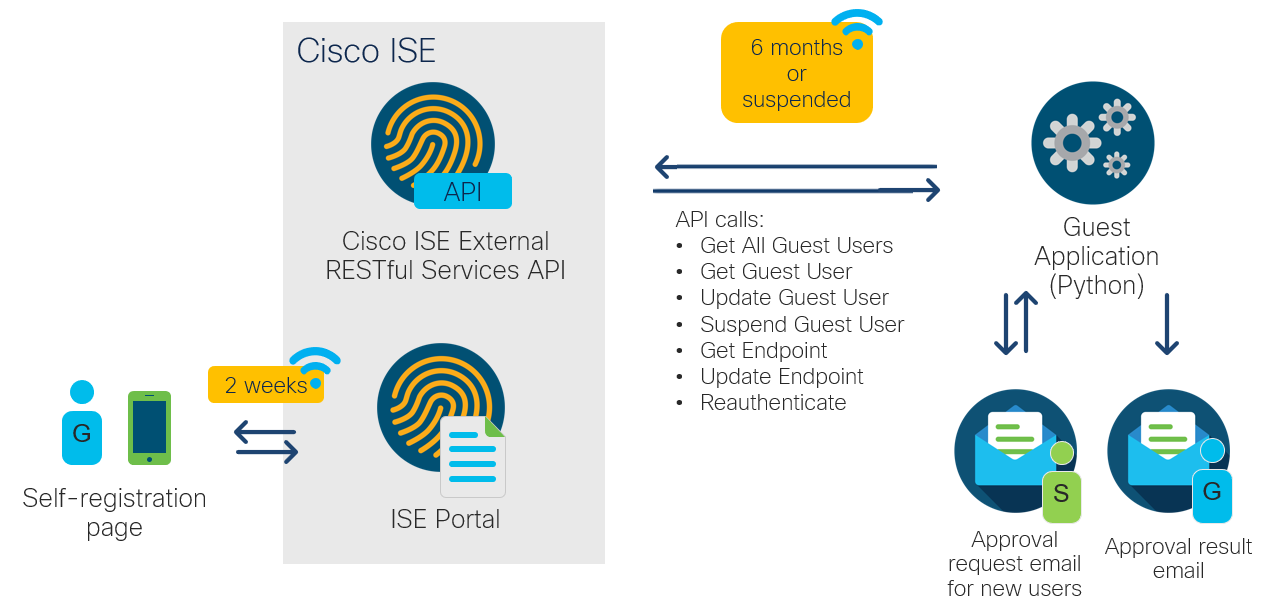
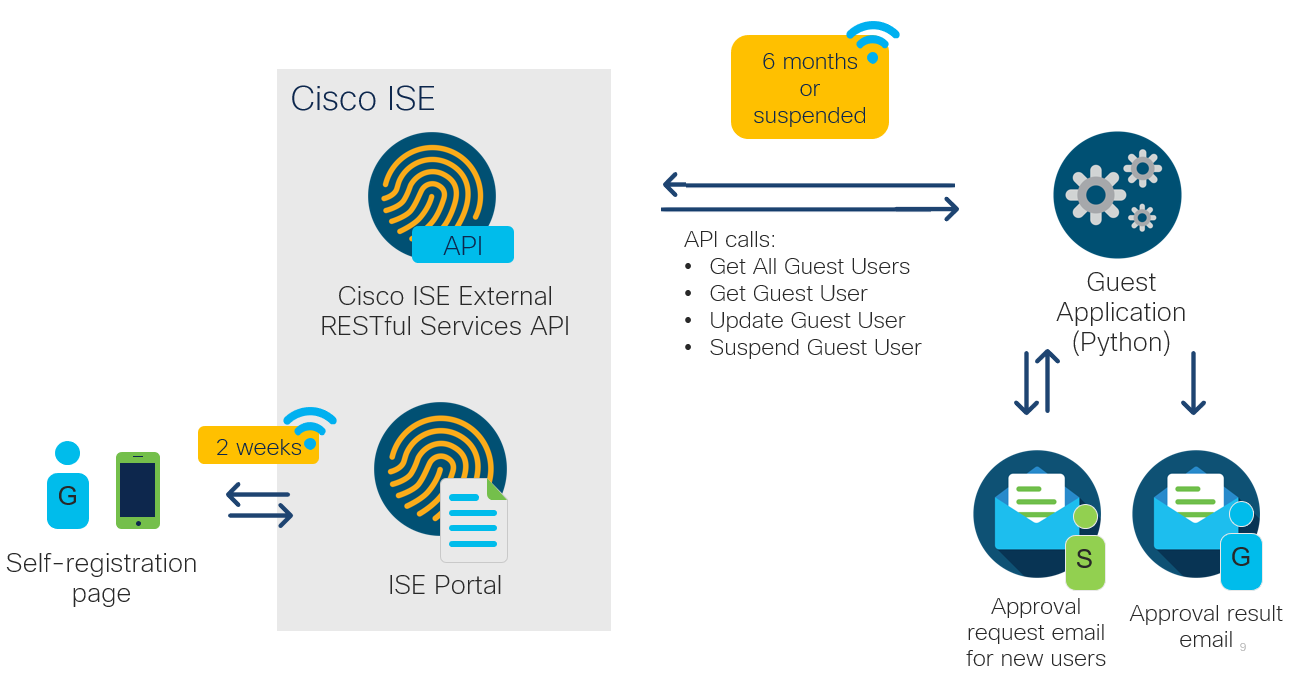
Baselined from internal Repository last_commit:55949ef94c226eb8f30155ea487baa083166c3f3

diff --git a/templates/ise_script.html b/templates/ise_script.html
@@ -19,16 +19,9 @@ or implied.
 <script type="text/javascript">
     $('input[id="guestUser.fieldValues.ui_approve_text"]').attr('value', 'true');
     $('label[for="guestUser.fieldValues.ui_approve_text"]').parent().hide();
-    
-    var url= window.location.href;
-    var session_id = url.split('sessionId=').pop().split('&')[0];
-    
-    $('input[id="guestUser.fieldValues.ui_sessionid_text"]').attr('value', session_id );
-    $('label[for="guestUser.fieldValues.ui_sessionid_text"]').parent().hide();
 </script>
 
 <!--Self-Registration Success -->
 <script type="text/javascript">
     $('div.ui_reg_succ_approve_text_label').hide();
-    $('div.ui_reg_succ_sessionid_text_label').hide();
 </script>

diff --git a/app.py b/app.py
@@ -42,28 +42,13 @@ def approve():
     print('--------APROVING TRIGGERED VIA EMAIL----------')
     username = request.args.get('username')
     user = json.loads(api_service.getGuestUserbasedOnName(username))
-
-    print(user)
     
-    if 'GuestUser' in user and 'ui_approve_text_label' in user['GuestUser']['customFields'] and 'ui_sessionid_text_label' in user['GuestUser']['customFields'] and user['GuestUser']['customFields']['ui_approve_text_label'] == 'waiting':
+    if 'GuestUser' in user and 'ui_approve_text_label' in user['GuestUser']['customFields'] and user['GuestUser']['customFields']['ui_approve_text_label'] == 'waiting':
         
         #update guestuser to have access for 180 days and change approval state to 'approved' 
         updateInfo = api_service.updateGuestUserByName(user['GuestUser']['name'], 180, 'approved')
         print(updateInfo)
-
-        #assign user to endpoint group for long term access
-        sessionID = user['GuestUser']['customFields']['ui_sessionid_text_label']
-        print('Session ID:' + sessionID)
-        endpoint = json.loads(api_service.getEndpointByID(sessionID))
-        print(endpoint)
-        updateInfoEndpoint = api_service.updateEnpointByDuration(sessionID, "long", endpoint["ERSEndPoint"]["portalUser"])
-        print(updateInfoEndpoint)
-
-        #reauth device 
-        deviceMAC = endpoint['ERSEndPoint']['mac']
-        reauth = api_service.reauthenticate(deviceMAC)
-        print(reauth)
-
+        
         #inform guest user about approved request
         mail_service.sendMail(user['GuestUser'], 'guestSucc', '') 
         
@@ -137,32 +122,20 @@ def sendApprovalMails():
     for user in json.loads(users)['SearchResult']['resources']:
         
         detailUser = json.loads(api_service.getGuestUserbasedOnName(user['name']))
-       
-        if 'GuestUser' in detailUser and 'ui_approve_text_label' in detailUser['GuestUser']['customFields'] and 'ui_sessionid_text_label' in detailUser['GuestUser']['customFields'] and detailUser['GuestUser']['customFields']['ui_approve_text_label'] == 'true':
+
+        if 'GuestUser' in detailUser and 'ui_approve_text_label' in detailUser['GuestUser']['customFields'] and detailUser['GuestUser']['customFields']['ui_approve_text_label'] == 'true':
             
             print(detailUser) 
             
             #update guestuser to have access for 14 days and approval state to 'waiting'             
-            updateInfoGuestUser = api_service.updateGuestUserByName(user['name'], 14, 'waiting')
-            print(updateInfoGuestUser)
+            updateInfo = api_service.updateGuestUserByName(user['name'], 14, 'waiting')
             
-            #assign user to endpoint group for short term access
-            sessionID = detailUser['GuestUser']['customFields']['ui_sessionid_text_label']
-            print('Session ID:' + sessionID)
-            endpoint = json.loads(api_service.getEndpointByID(sessionID))
-            print(endpoint)
-            updateInfoEndpoint = api_service.updateEnpointByDuration(sessionID, "short", endpoint["ERSEndPoint"]["portalUser"])
-            print(updateInfoEndpoint)
+            print(updateInfo)
 
-            #reauth device 
-            deviceMAC = endpoint['ERSEndPoint']['mac']
-            reauth = api_service.reauthenticate(deviceMAC)
-            print(reauth)
+            sponsorMail = detailUser['GuestUser']['personBeingVisited']
 
             #inform sponsor about new request
-            sponsorMail = detailUser['GuestUser']['personBeingVisited']
             mail_service.sendMail(detailUser['GuestUser'], 'sponsor', sponsorMail) 
-            
             return True
         
     return False

diff --git a/api_service.py b/api_service.py
@@ -18,7 +18,6 @@ import os
 import requests
 import base64
 import json
-import xml.etree.ElementTree as ET
 from dotenv import load_dotenv
 
 # load all environment variables
@@ -56,21 +55,9 @@ sponsor_headers = {
 'Authorization': 'Basic ' + sponsor_encodedAuth
 }
 
+
 '''Sponsor Portal Info'''
 SPONSOR_PORTAL_ID = os.environ['SPONSOR_PORTAL_ID']
-
-'''Endpoint Groups'''
-SHORT_TERM_ENDPOINT_GROUP = os.environ['SHORT_TERM_ENDPOINT_GROUP']
-LONG_TERM_ENDPOINT_GROUP = os.environ['LONG_TERM_ENDPOINT_GROUP']
-
-'''MGMT API header'''
-mnt_headers = {
-'Accept': 'application/xml',
-'Authorization': 'Basic ' + ers_encodedAuth
-}
-
-'''Private ISE IP for endpoint reauth'''
-ISE_PRIVATE_IP = os.environ['ISE_PRIVATE_IP']
 
 
 '''Create Timestamps based on number of days'''
@@ -211,71 +198,5 @@ def getSponsorPortals():
     response = requests.request(method, url, headers=ers_headers, data={}, verify=False)
     print('Response Code: ' + str(response.status_code))
     return response.text
-
-
-'''
-Get an endpoint by its ID
-'''
-def getEndpointByID(sessionID):
-    print('-----------------GET ENDPOINT BY SESSION ID----------------')
-    url = HOST +":9060/ers/config/endpoint/" + sessionID 	
-    method = "GET"
-    response = requests.request(method, url, headers=ers_headers, data={}, verify=False)
-    print('Response Code: ' + str(response.status_code))
-    return response.text
-
-
-'''
-Update endpoint based on account duration (long, short)
-'''
-def updateEnpointByDuration(sessionID, duration, portalUser):
-    if duration == "short":
-        response = updateEndpointByID(sessionID, SHORT_TERM_ENDPOINT_GROUP, portalUser)
-    elif duration == "long":
-        response = updateEndpointByID(sessionID, LONG_TERM_ENDPOINT_GROUP, portalUser)
-
-    return response
-
-
-'''
-Update the group ID for an endpoint by its ID
-'''
-def updateEndpointByID(sessionID, groupID, portalUser):
-    print('-----------------UPDATE ENDPOINT GROUP ID ----------------')
-    url = HOST +":9060/ers/config/endpoint/" + sessionID 
-
-    data = {
-	"ERSEndPoint": {
-		"id": "",
-		"groupId": "",
-        "portalUser": ""
-        }
-    }
-    data["ERSEndPoint"]["id"] = sessionID
-    data["ERSEndPoint"]["groupId"] = groupID
-    data["ERSEndPoint"]["portalUser"] = portalUser
-
-    method = "PUT"
-    response = requests.request(method, url, headers=ers_headers, data=json.dumps(data), verify=False)
-    print('Response Code: ' + str(response.status_code))
-    return response.text
-
-
-'''
-Reauthenticate a device by its MAC
-'''
-def reauthenticate(deviceMAC):
-    print('------------------------- Reauth User:----------------------------')
-    global ISE_PRIVATE_IP
-    url = HOST + f"/admin/API/mnt/CoA/Reauth/{ISE_PRIVATE_IP}/{deviceMAC}/0"
-    print(url)
-    method = "GET"
-    response = requests.request(method, url, headers=mnt_headers, data={}, verify=False)
-
-    return response.text
-
-
-
-
 
 

diff --git a/README.md b/README.md
@@ -1,13 +1,14 @@
 # ISE - Expanded Grace Period Guest Portal
-The expanded grace period guest portal enhances the ISE Self-Registration Guest Portal to allow a grace period longer than 30 min for sponsors to approve a new guest user. Furthermore, it allows the browser window to be closed after the self-registration and automatically connects the guest user to the network after successful registration. ISE instead requires the browser window to stay open while waiting for approval.
+The expanded grace period guest portal enhances the ISE Self-Registration Guest Portal to allow a grace period longer than 30 min for sponsors to approve a new guest user. Furthermore, it allows the browser window to be closed after the self-registration. ISE requires the browser window to stay open while waiting for approval.
 
 
 ## Contacts
 * Ramona Renner
 
 ## Solution Components
-* Cisco ISE (Identity Services Engine) with admin access
+* Cisco ISE (Identity Services Engine)
 * Two email accounts
+
 
 ## Demo Workflow
 
@@ -20,23 +21,14 @@ The expanded grace period guest portal enhances the ISE Self-Registration Guest 
 
 A native ISE self-registration portal covers the creation of a guest user account with 2 weeks validity on successful registration. 
 
-The guest application handles the whole approval process. Therefore, it checks every 20 seconds (interval is adjustable) for new users for whom the approval process has not yet been started. These users are characterized by the value true of a hidden custom field (Approve) in the self-registration form. 
-As soon as a new guest user successfully registers via the self-registration portal, the application will identify the user and start the following approval process based on the mentioned field value:
+The guest application handles the whole approval process. Therefore, it checks every 20 seconds (interval is adjustable) for new users for whom the approval process has not yet been started. These users are characterised by the value true of a hidden custom field (Approve) in the self-registration form. 
+As soon as a new guest user successfully registers via the self-registration portal the application will identify the user and start the following approval process based on the mentioned field value:
 1. Request detailed information about the identified new user
-2. Change custom field (Approve) to waiting
-3. Request detailed information about the endpoint associated with the session of the user 
-4. Assign endpoint to predefined short-term endpoint group
-5. Trigger change of authorization to reauthenticate the endpoint
-6. Send approval request email to sponsor
-7. Sponsor triggers the action to accept or deny by clicking the corresponding link in the email.   
-7.1. Accept:  
-7.1.1. Update guest user's account validity to 180 days and change custom field (Approve) to approved  
-7.1.2. Request detailed information about the endpoint associated with the session of the user  
-7.1.3. Assign endpoint to predefined long-term endpoint group  
-7.1.4. Trigger change of authorization to reauthenticate the endpoint  
-7.2. Deny:  
-7.2.1. Suspend user from network  
-8. Send approval result email to guest user  
+2. Send approval request email to sponsor and change custom field (Approve) to waiting
+3. Sponsor triggers the action to accept or deny by clicking the corresponding link in the email.   
+3.1. Accept: Update guest user's account validity to 180 days and change custom field (Approve) to approved  
+3.2. Deny: Suspend user from network 
+4. Send approval result email to guest user
 
 
 
@@ -51,11 +43,7 @@ Configure the following steps after the basic portal setup to prepare ISE for th
 1. **Add user location to ISE:** Go to: Work Centers > Guest Access > Settings > Guest Locations and SSIDs > Fill in **Location name** (e.g. San Jose) > Choose **Time zone** (e.g. America/Los_Angeles) > Click **Add** > Click: **Save**
   ![/IMAGES/locations.png](/IMAGES/locations.png)
 
-2. **Create two custom fields in ISE:** Go to: Work Centers > Guest Access > Settings > Custom Fields > Fill in **Custom field name** > Choose **Data type** > Click **Add** > Click: **Save**
-  
-* Customer field 1: Name: Approve, Type: String
-* Customer field 2: Name: SessionID, Type: String
-
+2. **Create a custom field in ISE:** Go to: Work Centers > Guest Access > Settings > Custom Fields > Fill in **Custom field name** (e.g.Approve) > Choose **Data type** (e.g. String) > Click **Add** > Click: **Save**
   ![/IMAGES/createCustomField.png](/IMAGES/createCustomField.png) 
   
 
@@ -67,7 +55,7 @@ On the preferred Self-Registration Guest Portal page (under Work Centers > Guest
 4. **Set account validity to 14 days and guest type to Contractor (default):** Go to: ... > Portal Behavior and Flow Settings -> Registration Form Settings > Set: Assign to guest type **Contractor (default)** and Account valid for **14 Days**  
   ![/IMAGES/validity.png](/IMAGES/validity.png)
 
-5. **Add custom fields to the self-registration form:** Go to: ... > Portal Behavior and Flow Settings -> Registration Form Settings > Fields to include > Click: **Custom Fields** > Select preferred custom fields (Approve and SessionID) > Click **OK**  
+5. **Add custom field to the self-registration form:** Go to: ... > Portal Behavior and Flow Settings -> Registration Form Settings > Fields to include > Click: **Custom Fields** > Select preferred custom field (e.g. Approve) > Click **OK**  
   ![/IMAGES/addCustomField.png](/IMAGES/addCustomField.png)
   ![/IMAGES/addCustomField2.png](/IMAGES/addCustomField2.png)  
 
@@ -80,7 +68,6 @@ On the preferred Self-Registration Guest Portal page (under Work Centers > Guest
   * Location (add location as decribed in step 1 beforehand e.g. San Jose)
   * Person being visited
   * Approve (add custom field as described in step 5 beforehand)
-  * SessionID (add custom field as described in step 5 beforehand)
 
   ![/IMAGES/formfields.png](/IMAGES/formfields.png)
 
@@ -89,20 +76,13 @@ On the preferred Self-Registration Guest Portal page (under Work Centers > Guest
 
 8. Save all changes in the **Portal Behavior and Flow Settings** tab by clicking **Save** 
 
-9. **Add a script to hide the custom fields and set their value - approve: true; sessionID: id shared in URL:** True indicates a new guest user for whom the approval process has not yet been started. Go to: ... > Portal Page Customization >      
+9. **Add a script to hide the custom field and to set its value to true.** True indicates a new guest user for whom the approval process has not yet been started. Go to: ... > Portal Page Customization >      
   
   Registration Form > Add the following in the  **Optional Content 2** field > Click: **Save**:   
   ```python 
   <script type="text/javascript">
     $('input[id="guestUser.fieldValues.ui_approve_text"]').attr('value', 'true');
     $('label[for="guestUser.fieldValues.ui_approve_text"]').parent().hide();
-    
-    //Get url
-    var url= window.location.href;
-    var session_id = url.split('sessionId=').pop().split('&')[0];
-    
-    $('input[id="guestUser.fieldValues.ui_sessionid_text"]').attr('value', session_id );
-    $('label[for="guestUser.fieldValues.ui_sessionid_text"]').parent().hide();
   </script>
   ```
 
@@ -110,8 +90,7 @@ On the preferred Self-Registration Guest Portal page (under Work Centers > Guest
 
   ```python
   <script type="text/javascript">
-      $('div.ui_reg_succ_approve_text_label').hide();
-      $('div.ui_reg_succ_sessionid_text_label').hide();
+    $('div.ui_reg_succ_approve_text_label').hide();
   </script>
   ```
   
@@ -124,9 +103,6 @@ On the preferred Self-Registration Guest Portal page (under Work Centers > Guest
   9.2. Create ERS Admin  
   9.3. Set up ERS for Sponsor Access  
 
-10. **Verify the monitoring node:** Follow the [instructions to verify a monitoring node](https://developer.cisco.com/docs/identity-services-engine/3.0/#!introduction-to-monitoring-rest-apis/verifying-a-monitoring-node) to:  
-  10.1. Go to: Administration > System > Deployment  
-  10.2. Check that the target node you want to monitor is listed as a monitoring node  
 
 
 ### Guest Application Setup
@@ -157,9 +133,7 @@ Download and configure [Packetriot](https://docs.packetriot.com/quickstart/):
 6. Configure the environment variables in **.env** file:  
       
   ```python  
-    HOST: https://[ISE hostname/IP]
-    ISE_PRIVATE_IP= [Private ISE IP]
-
+    HOST: https://[ISE hostname/IP]  
     ERS_USERNAME: [ISE username]  
     ERS_PASSWORD: [ISE password]  
 
@@ -168,17 +142,12 @@ Download and configure [Packetriot](https://docs.packetriot.com/quickstart/):
      
     SPONSOR_PORTAL_ID: [ID of associated sponsor portal - see hint on how to easily retrieve the ID]  
 
-    USER_LOCATION: [user location (e.g.: San Jose)]  
-
     SENDER_EMAIL: [email address from which notification emails will be send] 
     SENDER_PW: [password of sender email address account]
       
     APP_URL: [tunnel hostname or http://localhost:8000, see step 5] 
 
     SCHEDULER_INTERVAL_SEC = [Interval in which script checks for new users] 
-
-    SHORT_TERM_ENDPOINT_GROUP= [ID of endpoint group for short-term guest user] 
-    LONG_TERM_ENDPOINT_GROUP= [ID of endpoint group for long-term guest user]  
   ```
 
 > Note: Make sure that the sender email account settings allow the sending of emails via an external app (e.g. [Instructions for gmail.com account](https://www.google.com/settings/security/lesssecureapps) - Use only for testing purposes.)  
@@ -194,7 +163,6 @@ At this point everything is set up and the application is running. Add a new use
 
  - [Cisco ISE API Documentation](https://developer.cisco.com/docs/identity-services-engine/3.0/#!cisco-ise-api-documentation)
  - [Cisco ISE ERS API Examples](https://community.cisco.com/t5/security-documents/ise-ers-api-examples/ta-p/3622623)
- - [Cisco ISE Monitoring REST API](https://developer.cisco.com/docs/identity-services-engine/3.0/#!introduction-to-monitoring-rest-apis)
 
 ### LICENSE
 
